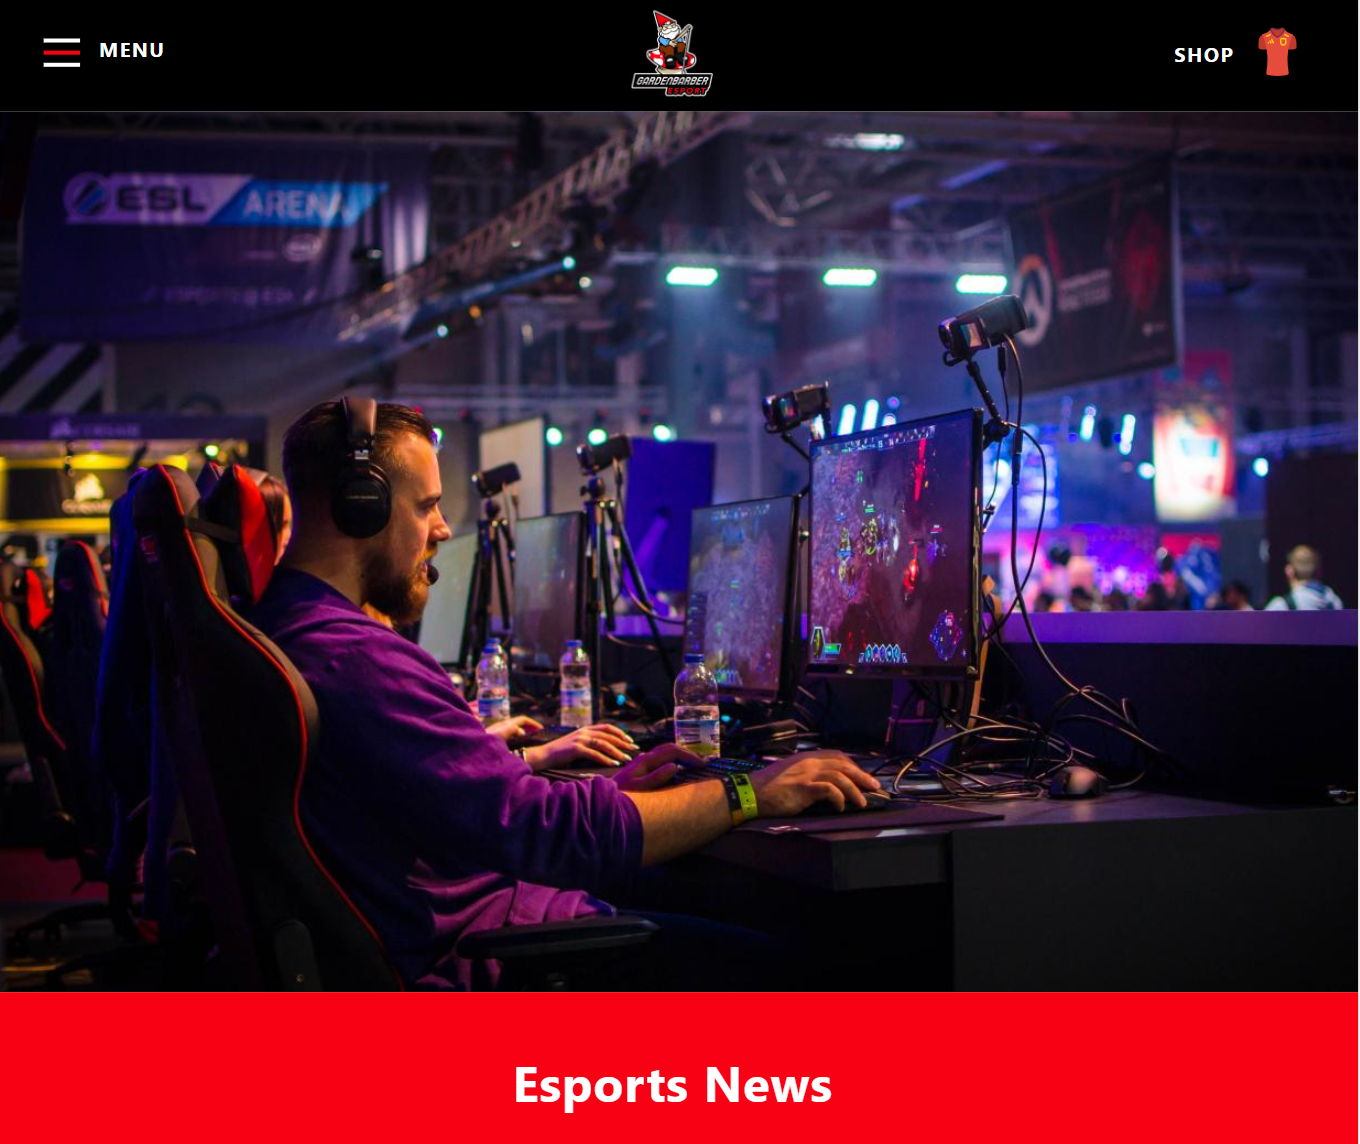
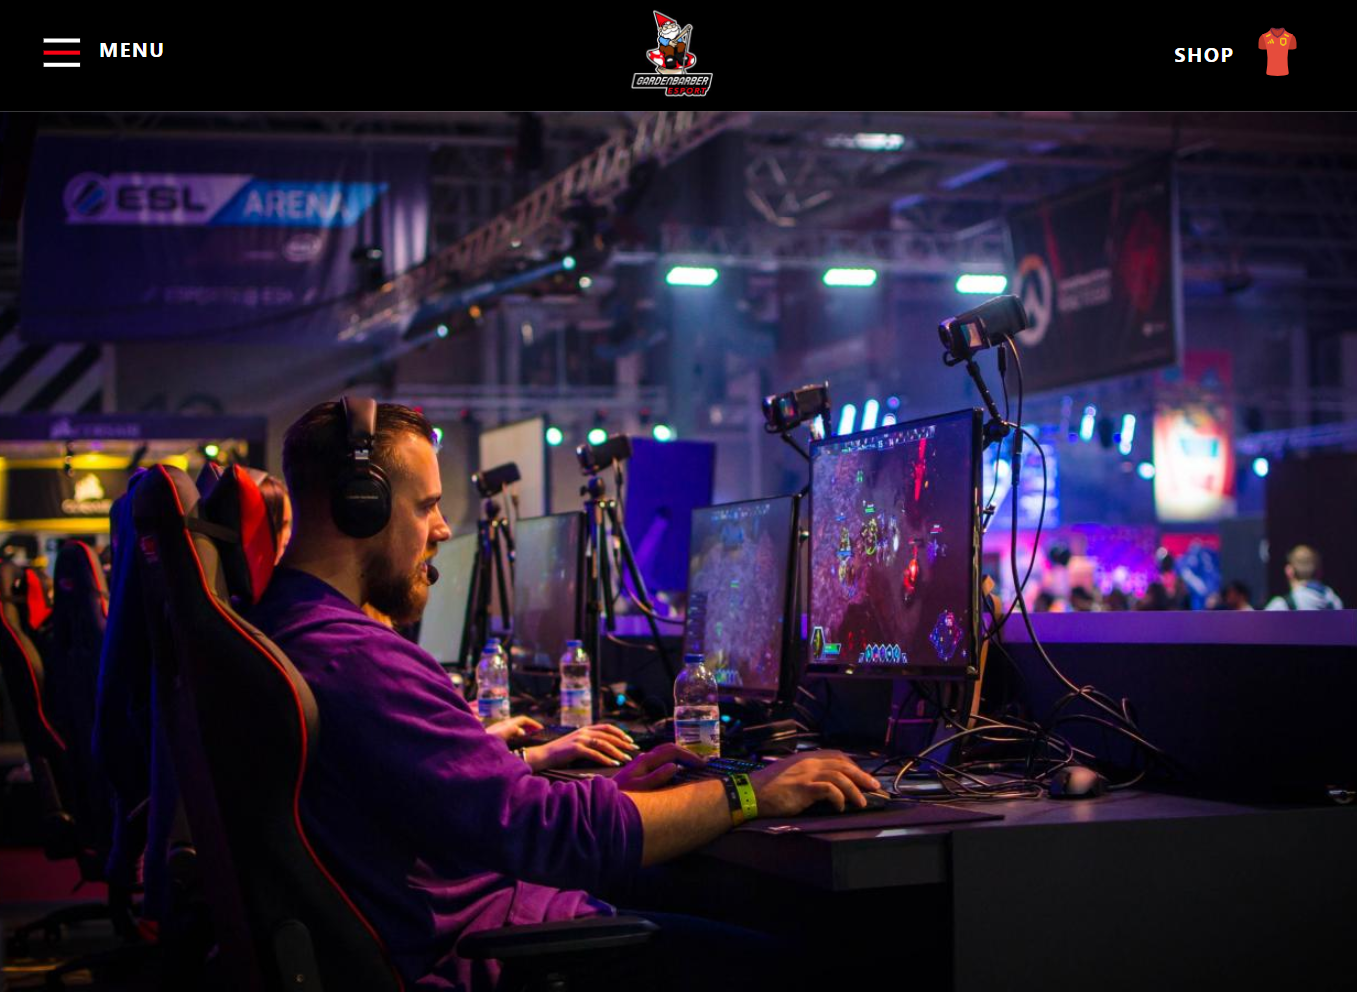
+ Productions section

diff --git a/src/components/Home/NewSection.js b/src/components/Home/NewSection.js
@@ -1,7 +1,9 @@
 import React from 'react'
-import styled from 'styled-components'
+import { Section } from './Section'
+import { Gallery } from './Gallery'
 
 export function NewsSection(props) {
+  const title = 'Esports News'
   const imageLinks = [
     'https://encrypted-tbn0.gstatic.com/images?q=tbn%3AANd9GcQLvvh0hs0NWvUAGGQ5H4gUzLNP4J5hkQc2Rg&usqp=CAU',
     'https://encrypted-tbn0.gstatic.com/images?q=tbn%3AANd9GcTGYSUQ7vhfksR1dwypPO7tz1D2byUfMmGvkw&usqp=CAU',
@@ -12,49 +14,8 @@ export function NewsSection(props) {
   ]
 
   return (
-    <Wrapper>
-      <Title>Esports News</Title>
-      <Gallery>
-        { imageLinks.map((link, index) =>
-          <Image key={ index } src={ link } />
-        ) }
-      </Gallery>
-    </Wrapper>
+    <Section title={ title }>
+      <Gallery imageLinks={ imageLinks } />
+    </Section>
   )
 }
-
-const Wrapper = styled.div`
-  display: flex;
-  flex-direction: column;
-  align-items: center;
-  background: #f90114;
-  padding: 3rem 0;
-`
-
-const Title = styled.h2`
-  color: white;
-  font-size: 2.5rem;
-  margin-bottom: 2rem;
-`
-
-const Gallery = styled.div`
-  display: grid;
-  grid-template-columns: 300px;
-  /* padding: 3rem 0; */
-  gap: 2rem;
-
-  @media (min-width: 768px) {
-    grid-template-columns: repeat(2, 300px);
-  }
-
-  @media (min-width: 1024px) {
-    grid-template-columns: repeat(3, 300px);
-  }
-`
-
-const Image = styled.img`
-  width: 300px;
-  height: 200px;
-  border: 2px solid white;
-  background: gray;
-`

diff --git a/src/components/Home/ProductionSection.js b/src/components/Home/ProductionSection.js
@@ -1,12 +1,24 @@
 import React from 'react'
-// import styled from 'styled-components'
+import { Gallery } from './Gallery'
+import { Section } from './Section'
 
 export function ProductionSection(props) {
-
+  const title = 'Productions'
+  const imageLinks = [
+    'https://encrypted-tbn0.gstatic.com/images?q=tbn%3AANd9GcQLvvh0hs0NWvUAGGQ5H4gUzLNP4J5hkQc2Rg&usqp=CAU',
+    'https://encrypted-tbn0.gstatic.com/images?q=tbn%3AANd9GcTGYSUQ7vhfksR1dwypPO7tz1D2byUfMmGvkw&usqp=CAU',
+    'https://encrypted-tbn0.gstatic.com/images?q=tbn%3AANd9GcQDV65HO474J9GWl83CjqNPTXbgbDMOR9N8uQ&usqp=CAU',
+    'https://encrypted-tbn0.gstatic.com/images?q=tbn%3AANd9GcRUDHq6jJ1M5yM2Chdv8dr_XIR8F8yDJp1HoQ&usqp=CAU',
+    'https://encrypted-tbn0.gstatic.com/images?q=tbn%3AANd9GcS6wrKY36HLmaEg7Sc9vmM4wDT_ivExB244sA&usqp=CAU',
+    'https://encrypted-tbn0.gstatic.com/images?q=tbn%3AANd9GcTpxMlvVAy0jEcLXBuGvps4n6p3Alzv49o8Vw&usqp=CAU',
+    'https://encrypted-tbn0.gstatic.com/images?q=tbn%3AANd9GcTGYSUQ7vhfksR1dwypPO7tz1D2byUfMmGvkw&usqp=CAU',
+    'https://encrypted-tbn0.gstatic.com/images?q=tbn%3AANd9GcRUDHq6jJ1M5yM2Chdv8dr_XIR8F8yDJp1HoQ&usqp=CAU',
+    'https://encrypted-tbn0.gstatic.com/images?q=tbn%3AANd9GcS6wrKY36HLmaEg7Sc9vmM4wDT_ivExB244sA&usqp=CAU',
+  ]
 
   return (
-    <>
-
-    </>
+    <Section title={ title }>
+      <Gallery imageLinks={ imageLinks } />
+    </Section>
   )
 }

diff --git a/src/components/Home/Gallery.js b/src/components/Home/Gallery.js
@@ -1,0 +1,33 @@
+import React from 'react'
+import styled from 'styled-components'
+
+export function Gallery({ imageLinks }) {
+  return (
+    <Grid>
+      { imageLinks.map((link, index) =>
+        <Image key={ index } src={ link } />
+      ) }
+    </Grid>
+  )
+}
+
+const Grid = styled.div`
+  display: grid;
+  grid-template-columns: 300px;
+  gap: 2rem;
+
+  @media (min-width: 768px) {
+    grid-template-columns: repeat(2, 300px);
+  }
+
+  @media (min-width: 1024px) {
+    grid-template-columns: repeat(3, 300px);
+  }
+`
+
+const Image = styled.img`
+  width: 300px;
+  height: 200px;
+  border: 2px solid white;
+  background: gray;
+`

diff --git a/src/components/Home/index.js b/src/components/Home/index.js
@@ -2,7 +2,7 @@ import React from 'react'
 import styled from 'styled-components'
 import HeroSection from './HeroSection'
 import { NewsSection } from './NewSection'
-// import { ProductionSection } from './ProductionSection'
+import { ProductionSection } from './ProductionSection'
 // import { ShopSection } from './ShopSection'
 
 export function Home() {
@@ -10,7 +10,7 @@ export function Home() {
     <Wrapper>
       <HeroSection />
       <NewsSection />
-      {/* <ProductionSection /> */}
+      <ProductionSection />
       {/* <ShopSection /> */}
     </Wrapper>
   )

diff --git a/src/components/Home/Section.js b/src/components/Home/Section.js
@@ -1,0 +1,25 @@
+import React from 'react'
+import styled from 'styled-components'
+
+export function Section({ children, title }) {
+  return (
+    <Wrapper>
+      <Title>{ title }</Title>
+      { children }
+    </Wrapper>
+  )
+}
+
+const Wrapper = styled.div`
+  display: flex;
+  flex-direction: column;
+  align-items: center;
+  background: #f90114;
+  padding: 3rem 0;
+`
+
+const Title = styled.h2`
+  color: white;
+  font-size: 2.5rem;
+  margin-bottom: 2rem;
+`

diff --git a/src/components/Nav/Menu/MenuDropdown.js b/src/components/Nav/Menu/MenuDropdown.js
@@ -39,7 +39,7 @@ const Wrapper = styled.div`
   flex-direction: column;
   justify-content: space-evenly;
   align-items: center;
-  width: 100vw;
+  width: 100%;
   height: 90vh;
   position: absolute;
   top: 10vh;
